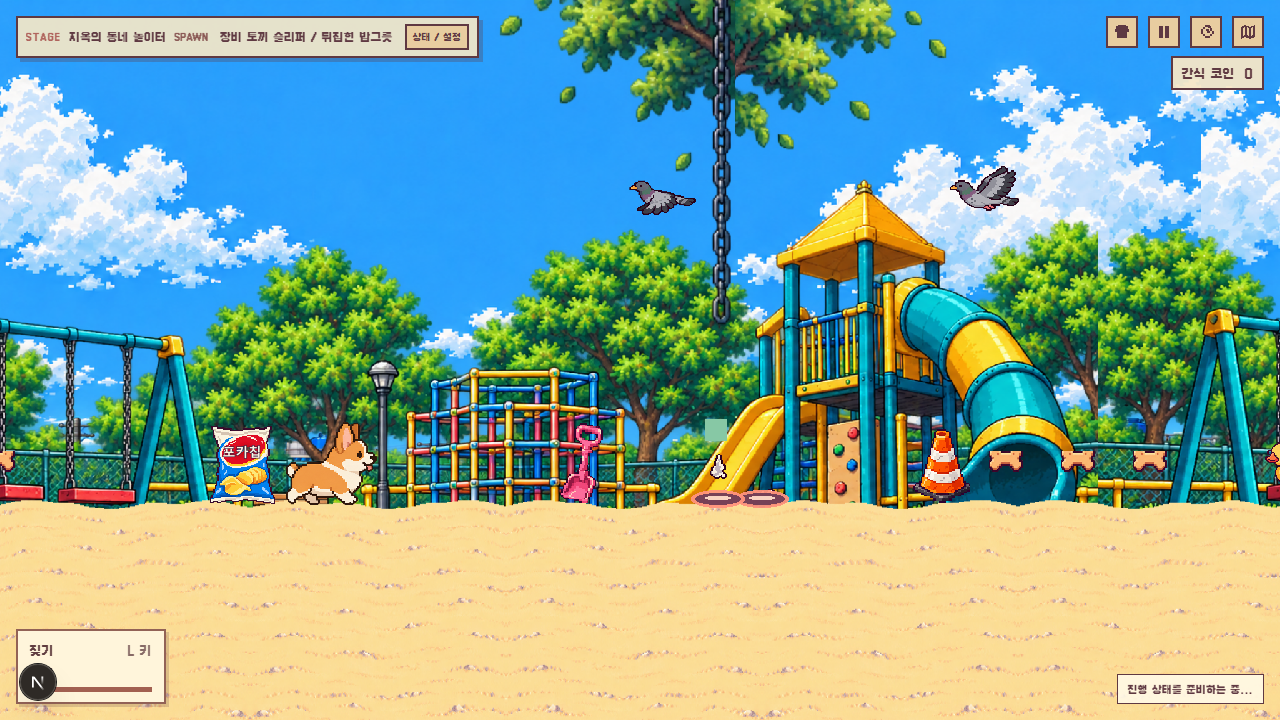
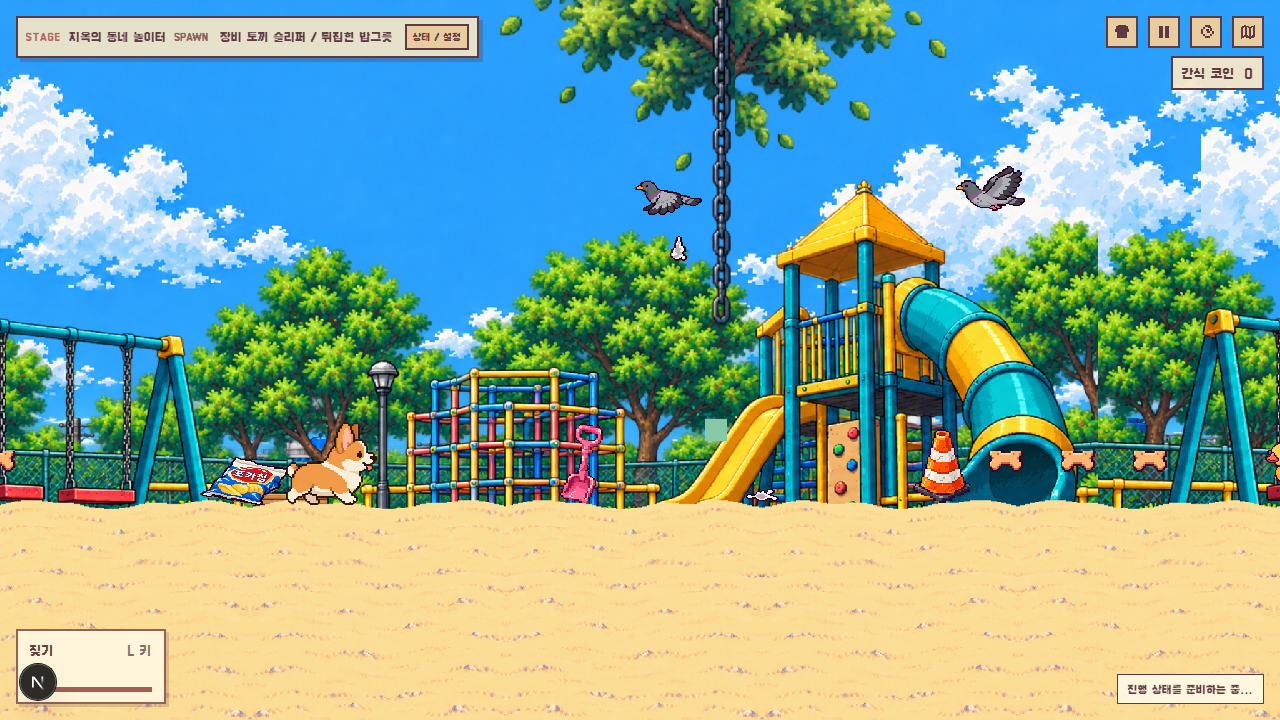
feat(world02): 비둘기 똥 착지 예고를 없애고 낙하 위치 분리
Plan: 2026-10-21-world02-obstacle-pigeon-polish

Phase: P01-visual-and-flight

Task: T02-spread-pigeon-drops

diff --git a/src/game/systems/World02PigeonDropSystem.ts b/src/game/systems/World02PigeonDropSystem.ts
@@ -10,18 +10,16 @@ import { Player } from "../entities/Player";
 
 const BIRD_START_OFFSET = 240;
 const BIRD_END_OFFSET = 320;
-const WARNING_OFFSET = 80;
 const SAND_TOP_Y = 504;
 const SPLAT_LIFETIME_MS = 300;
 const WING_FRAME_MS = 120;
 
-type DroppingStatus = "pending" | "warned" | "falling" | "landed" | "finished";
+type DroppingStatus = "pending" | "falling" | "landed" | "finished";
 
 interface PigeonDropping {
   readonly x: number;
   status: DroppingStatus;
   splatRemainingMs: number;
-  warning?: Phaser.GameObjects.Graphics;
   sprite?: Phaser.Physics.Arcade.Sprite;
   splat?: Phaser.GameObjects.Image;
   overlap?: Phaser.Physics.Arcade.Collider;
@@ -74,10 +72,7 @@ export class World02PigeonDropSystem {
         flight.bird.x -= flight.definition.birdSpeedX * elapsed / 1000;
         flight.bird.setFrame(Math.floor(flight.flightElapsedMs / WING_FRAME_MS) % 3);
         for (const drop of flight.drops) {
-          if (drop.status === "pending" && flight.bird.x <= drop.x + WARNING_OFFSET) {
-            this.showWarning(drop);
-          }
-          if (drop.status === "warned" && flight.bird.x <= drop.x) {
+          if (drop.status === "pending" && flight.bird.x <= drop.x) {
             this.releaseDropping(flight, drop);
           }
         }
@@ -147,20 +142,6 @@ export class World02PigeonDropSystem {
     });
   }
 
-  private showWarning(drop: PigeonDropping): void {
-    drop.status = "warned";
-    const warning = this.scene.add.graphics()
-      .setPosition(drop.x, SAND_TOP_Y - 5)
-      .setDepth(11);
-    warning.fillStyle(0xff927c, 0.95);
-    warning.fillEllipse(0, 0, 54, 18);
-    warning.fillStyle(0x683852, 0.9);
-    warning.fillEllipse(0, 0, 46, 12);
-    warning.fillStyle(0xffdbc8, 0.95);
-    warning.fillEllipse(0, -1, 26, 5);
-    drop.warning = warning;
-  }
-
   private releaseDropping(flight: PigeonFlight, drop: PigeonDropping): void {
     drop.status = "falling";
     const sprite = this.scene.physics.add.sprite(
@@ -220,8 +201,6 @@ export class World02PigeonDropSystem {
 
   private clearDropping(drop: PigeonDropping): void {
     this.destroyDroppingSprite(drop);
-    if (drop.warning?.active) drop.warning.destroy();
-    drop.warning = undefined;
     if (drop.splat?.active) drop.splat.destroy();
     drop.splat = undefined;
     drop.splatRemainingMs = 0;

diff --git a/src/game/data/world02PigeonDrops.ts b/src/game/data/world02PigeonDrops.ts
@@ -8,7 +8,7 @@ export interface World02PigeonPassDefinition {
 }
 
 export const WORLD02_PIGEON_SPAWN_INTERVAL_MS = 2000;
-export const WORLD02_PIGEON_DROP_OFFSETS: readonly number[] = [44, 0, -44];
+export const WORLD02_PIGEON_DROP_OFFSETS: readonly number[] = [84, 0, -84];
 
 export const WORLD02_STAGE1_PIGEON_PASSES: readonly World02PigeonPassDefinition[] = [
   { id: "world-02-stage-1-pigeon-1", triggerX: 830, dropX: 1280, flightY: 190, birdSpeedX: 160, droppingSpeedY: 770 },

diff --git a/.memory/phases/2026-10-21-world02-obstacle-pigeon-polish/P01-visual-and-flight/T02-spread-pigeon-drops.md b/.memory/phases/2026-10-21-world02-obstacle-pigeon-polish/P01-visual-and-flight/T02-spread-pigeon-drops.md
@@ -1,0 +1,62 @@
+# Task: T02 비둘기 예고 제거와 이동 낙하
+
+## Status: done
+
+## Goal
+
+비둘기 한 마리의 똥 세 개가 비행 방향으로 떨어진 별도 위치에 닿으며, 착지 전 바닥 위치 표시는 나타나지 않는다.
+
+## Decision Summary
+
+- 기존 2초 스폰 간격·세 비행 구간·낙하 중 즉사와 0.3초 착지 자국을 유지한다.
+
+## Implementation
+
+### I01. 낙하 간격과 예고 제거
+
+- Related Files:
+  - `src/game/data/world02PigeonDrops.ts` :: `WORLD02_PIGEON_DROP_OFFSETS` — `[84,0,-84]`로 변경; modify.
+  - `src/game/systems/World02PigeonDropSystem.ts` :: `PigeonDropping`, `update`, `showWarning`, `clearDropping` — 예고 그래픽/상태 제거; modify.
+- **Signatures & Types**: `DroppingStatus = "pending" | "falling" | "landed" | "finished"`. `PigeonDropping.warning` 필드를 없앤다. 외부 `update(deltaMs)`, `resetForAttempt(respawnX)`, `destroy()` API는 유지한다.
+- **Execution Flow / Logic**: 비둘기는 `dropX+240`에서 왼쪽으로 비행하고 x=`dropX+84`, `dropX`, `dropX-84` 통과 때 각각 똥을 떨어뜨린다. `scene.add.graphics`로 바닥 예고 원을 만들지 않는다. 낙하 sprite와 충돌은 그대로다. 착지 후 splat은 300ms만 보여준다.
+- **Error & Exception Handling**: 세 낙하 위치가 장애물 충돌체·코기 폭을 고려한 통과 여유를 갖는지 테스트한다. 한 낙하물 접촉 때 모든 동시 비행의 collider가 정리되어 중복 사망하지 않는다.
+
+### I02. 회귀·브라우저 확인
+
+- Related Files:
+  - `scripts/world02-pigeon-drops.test.mjs` :: 낙하 x·간격·경고 0건·사망·정지 테스트; modify.
+  - `.memory/test-plans/browser-world02-repeating-pigeons.mjs` :: 실제 게임 검증; modify.
+  - `.memory/test-plans/2026-10-21-world02-obstacle-pigeon-polish.md` :: 결과 기록; new.
+- **Data & Schema Fields**: 저장 스키마 변경 없음. 게임 장면에서 `flights[].drops[].warning`은 더 이상 존재하지 않는다.
+- **Execution Flow / Logic**: 낙하 위치와 예고 그래픽 0건을 확인한다. 비둘기 2초 재등장, 일시정지, 접촉 사망과 체크포인트는 회귀 검증한다. 고양이·포카칩의 화면 크기도 육안 확인한다.
+- **Error & Exception Handling**: 브라우저 예외·필수 에셋 404는 0건이어야 한다.
+
+## Acceptance Criteria
+
+- [x] 한 비둘기의 세 낙하 x가 84px씩 떨어진다.
+- [x] 착지 전에 바닥 경고 원이 없다.
+- [x] 2초 반복·접촉 사망·일시정지·착지 자국은 동작한다.
+
+## Validation
+
+- `node --test scripts/world02-pigeon-drops.test.mjs scripts/world02-obstacles.test.mjs scripts/world02-cat-attack.test.mjs scripts/death-system.test.mjs`.
+- `node node_modules/typescript/bin/tsc --noEmit`.
+- `npm.cmd run lint`.
+- `npm.cmd run build`.
+- `node .memory/test-plans/browser-world02-repeating-pigeons.mjs` — 전용 Chrome/CDP 준비 후.
+
+## Commit Message
+
+```text
+feat(world02): 비둘기 똥 착지 예고를 없애고 낙하 위치 분리
+
+Plan: 2026-10-21-world02-obstacle-pigeon-polish
+Phase: P01-visual-and-flight
+Task: T02-spread-pigeon-drops
+```
+
+## Progress
+
+- [x] 구현 완료
+- [x] 검증 통과 — 관련 테스트 30건, 타입·린트·빌드, Chrome 2초 반복·일시정지·사망·체크포인트
+- commit: T02 한국어 작업 커밋 (Git 로그 참조)

diff --git a/.memory/test-plans/2026-10-21-world02-obstacle-pigeon-polish.md b/.memory/test-plans/2026-10-21-world02-obstacle-pigeon-polish.md
@@ -1,0 +1,22 @@
+# 월드 2 장애물과 비둘기 연출 검증
+
+- 날짜: 2026-10-21
+- 대상: `world-02-stage-1`
+
+## 자동 검증
+
+- `node --test scripts/world02-obstacle-assets.test.mjs scripts/world02-obstacles.test.mjs scripts/world02-cat-attack.test.mjs scripts/world02-pigeon-drops.test.mjs scripts/death-system.test.mjs`: 30/30 통과.
+- `node scripts/validate-assets.mjs`: 필수 에셋 81개를 포함한 102개 등록 확인.
+- `node node_modules/typescript/bin/tsc --noEmit`, `npm.cmd run lint`, `npm.cmd run build`: 통과.
+
+## 실제 게임 확인
+
+- 전용 Chrome에서 `node .memory/test-plans/browser-world02-repeating-pigeons.mjs` 통과.
+- 포카칩 봉지는 최초 주황 봉지처럼 모래에 낮게 놓인 픽셀 그림을 사용하며, 기존 흰색 상단·빨간 로고·파란 하단·감자칩을 유지한다. [화면](./assets/2026-10-21-world02-snack-bag-ground.png).
+- 줄인 고양이 그림과 코기 점프 여유를 [화면](./assets/2026-10-21-world02-smaller-cat.png)에서 확인했다.
+- 한 비둘기의 낙하 x 좌표는 `1364, 1280, 1196`이며, 착지 전 바닥 경고 표시가 없다. 두 번째 비둘기는 2016.5ms 뒤에 나타났다. [화면](./assets/2026-10-21-world02-repeating-pigeons.png).
+- 일시정지 중 새의 이동과 재등장은 멈췄고, 낙하물 접촉 사망은 1건으로 기록됐다. 체크포인트 `world-02-stage-1-checkpoint`로 복귀했고 브라우저 예외·에셋 404는 0건이다.
+
+## 범위와 남은 점
+
+- 기존 `empty-snack-bag.png`와 `compose-world02-snack-bag.mjs`는 기존 디자인의 원본으로 보존했다. 실제 스테이지는 `empty-snack-bag-ground.png`를 읽으므로, 옛 합성 스크립트를 다시 실행해도 현재 게임 속 봉지는 바뀌지 않는다.

diff --git a/.memory/phases/2026-10-21-world02-obstacle-pigeon-polish/P01-visual-and-flight/phase.md b/.memory/phases/2026-10-21-world02-obstacle-pigeon-polish/P01-visual-and-flight/phase.md
@@ -1,0 +1,12 @@
+# Phase: P01 장애물 시각과 비둘기 낙하
+
+## Tasks
+
+| Task | Status | Summary | Blueprint |
+| :--- | :--- | :--- | :--- |
+| T01 | `done ✅` | 고양이 축소와 최초 과자 봉지 자세의 포카칩 (`2cd9265`, `7c3fdea`) | [T01](./T01-cat-and-snack-bag.md) |
+| T02 | `done ✅` | 예고 표시 제거와 비행 중 세 위치 낙하 | [T02](./T02-spread-pigeon-drops.md) |
+
+## Progress
+
+- done: 2/2 (active: 없음)

diff --git a/.memory/plans/2026-10-21-world02-obstacle-pigeon-polish.md b/.memory/plans/2026-10-21-world02-obstacle-pigeon-polish.md
@@ -12,7 +12,7 @@
 
 | Phase | Status | Summary | Blueprint |
 | :--- | :--- | :--- | :--- |
-| P01 | `in_progress` | 장애물 시각과 비둘기 낙하 연출 | [P01](../phases/2026-10-21-world02-obstacle-pigeon-polish/P01-visual-and-flight/phase.md) |
+| P01 | `done` | 장애물 시각과 비둘기 낙하 연출 | [P01](../phases/2026-10-21-world02-obstacle-pigeon-polish/P01-visual-and-flight/phase.md) |
 
 ## Task Order
 

diff --git a/.memory/phases/2026-10-21-world02-obstacle-pigeon-polish/P01-visual-and-flight/T01-cat-and-snack-bag.md b/.memory/phases/2026-10-21-world02-obstacle-pigeon-polish/P01-visual-and-flight/T01-cat-and-snack-bag.md
@@ -62,4 +62,4 @@ Task: T01-cat-and-snack-bag
 
 - [x] 구현 완료
 - [x] 검증 통과 — 관련 테스트 8건, 타입 검사, lint, build
-- commit: pending
+- commit: `2cd9265` (기본 크기), `7c3fdea` (최초 봉지 자세 반영)
